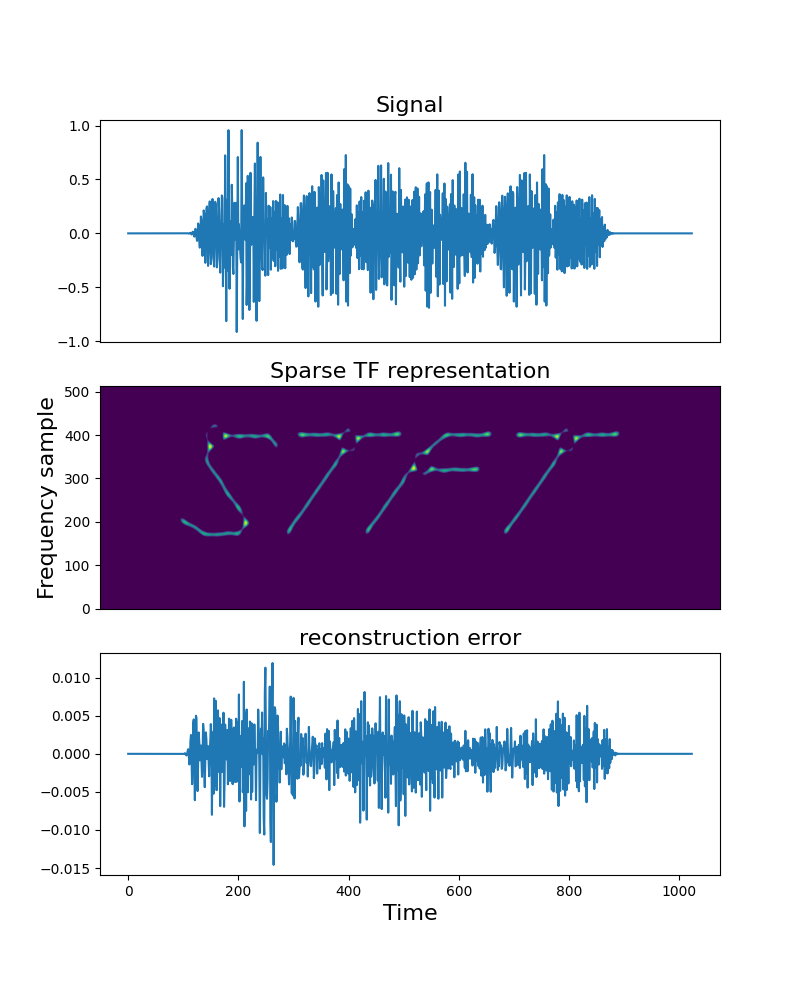
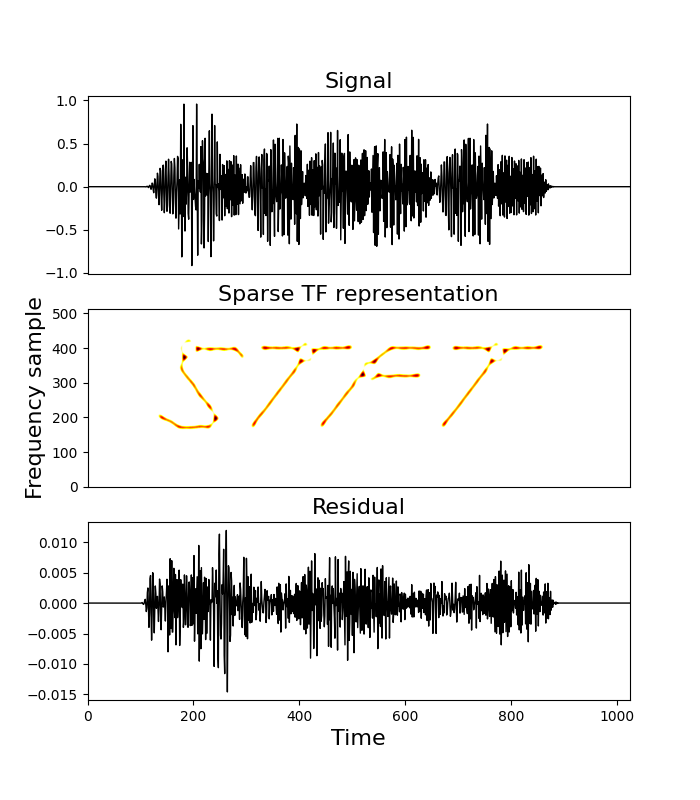
update

diff --git a/Code/Demo2.py b/Code/Demo2.py
@@ -28,16 +28,16 @@ from numpy.fft import (fft, ifft)
 import obspy as op
 
 #gamma: The weight of L2 norm
-gamma = 2
+gamma = 1
 
 #cgIter: number of CG iteration
 cgIter = 1
 
 #epsilon: Nonnegative scallar of noise level (N* sigma^2)
-epsilon = 1e-2
+epsilon = 1e-3
 
 #Window length
-nw = 60
+nw = 70
 
 
 
@@ -75,28 +75,31 @@ yrec  = np.real(np.sum(W * ifft(f, axis=0) , keepdims=True, axis=1))
 
 #%%
 
-fig, (ax,ax1,ax2) = plt.subplots(3,1,figsize=(8,10))
+fig, (ax,ax1,ax2) = plt.subplots(3,1,figsize=(8,8))
 t = np.arange(n) * dt
 
 
 fmin = 0
 fnyq = 1/dt/2
 nyqn = n//2
-ax.plot(t, y)
+ax.plot(t, y,'k', lw = 1)
 ax.set_title('Signal', fontsize= 16)
 ax.set_xticks([])
 #ax.set_xlabel('Time (s)',fontsize= 16)
+ax.set_xlim(t[0], t[-1])
 
-ax1.imshow(abs(f[nyqn+1:,:]), aspect= 'auto', extent= [t[0], t[-1],fmin, fnyq])
+
+ax1.imshow(abs(f[nyqn+1:,:]), aspect= 'auto', extent= [t[0], t[-1],fmin, fnyq],cmap='hot_r')
 ax1.set_title('Sparse TF representation',fontsize= 16)
 #ax1.set_xlabel('Time (s)',fontsize= 16)
 ax1.set_ylabel('Frequency (Hz)',fontsize= 16)
 ax1.set_xticks([])
 
 
-ax2.plot(y-yrec)
-ax2.set_title('reconstruction error',fontsize= 16)
+ax2.plot(t, y-yrec,'k', lw = 1)
+ax2.set_title('Residual',fontsize= 16)
 ax2.set_xlabel('Time (s)',fontsize= 16)
+ax2.set_xlim(t[0], t[-1])
 
 fig.savefig("Demo2.png", dpi=100)
 

diff --git a/Code/Demo.py b/Code/Demo.py
@@ -68,17 +68,19 @@ t = np.arange(n)
 
 fmin = 0
 nyqn = n//2
-ax.plot(t, y)
+ax.plot(t, y,'k', lw = 1)
 ax.set_title('Signal', fontsize=16)
 ax.set_xticks([])
+ax.set_xlim(0, n)
 
-ax1.imshow(abs(f[nyqn+1:,:]), aspect= 'auto', extent= [t[0], t[-1],fmin, nyqn])
+ax1.imshow(abs(f[nyqn+1:,:]), aspect= 'auto', extent= [t[0], t[-1],fmin, nyqn], cmap='hot_r')
 ax1.set_title('Sparse TF representation', fontsize=16)
 ax1.set_ylabel('Frequency sample', fontsize=16)
 ax1.set_xticks([])
 
-ax2.plot(y-yrec)
-ax2.set_title('reconstruction error', fontsize=16)
+ax2.plot(y-yrec,'k', lw = 1)
+ax2.set_title('Residual', fontsize=16)
 ax2.set_xlabel('Time', fontsize=16)
+ax2.set_xlim(0, n)
 
 fig.savefig("Demo1.png", dpi=100)
